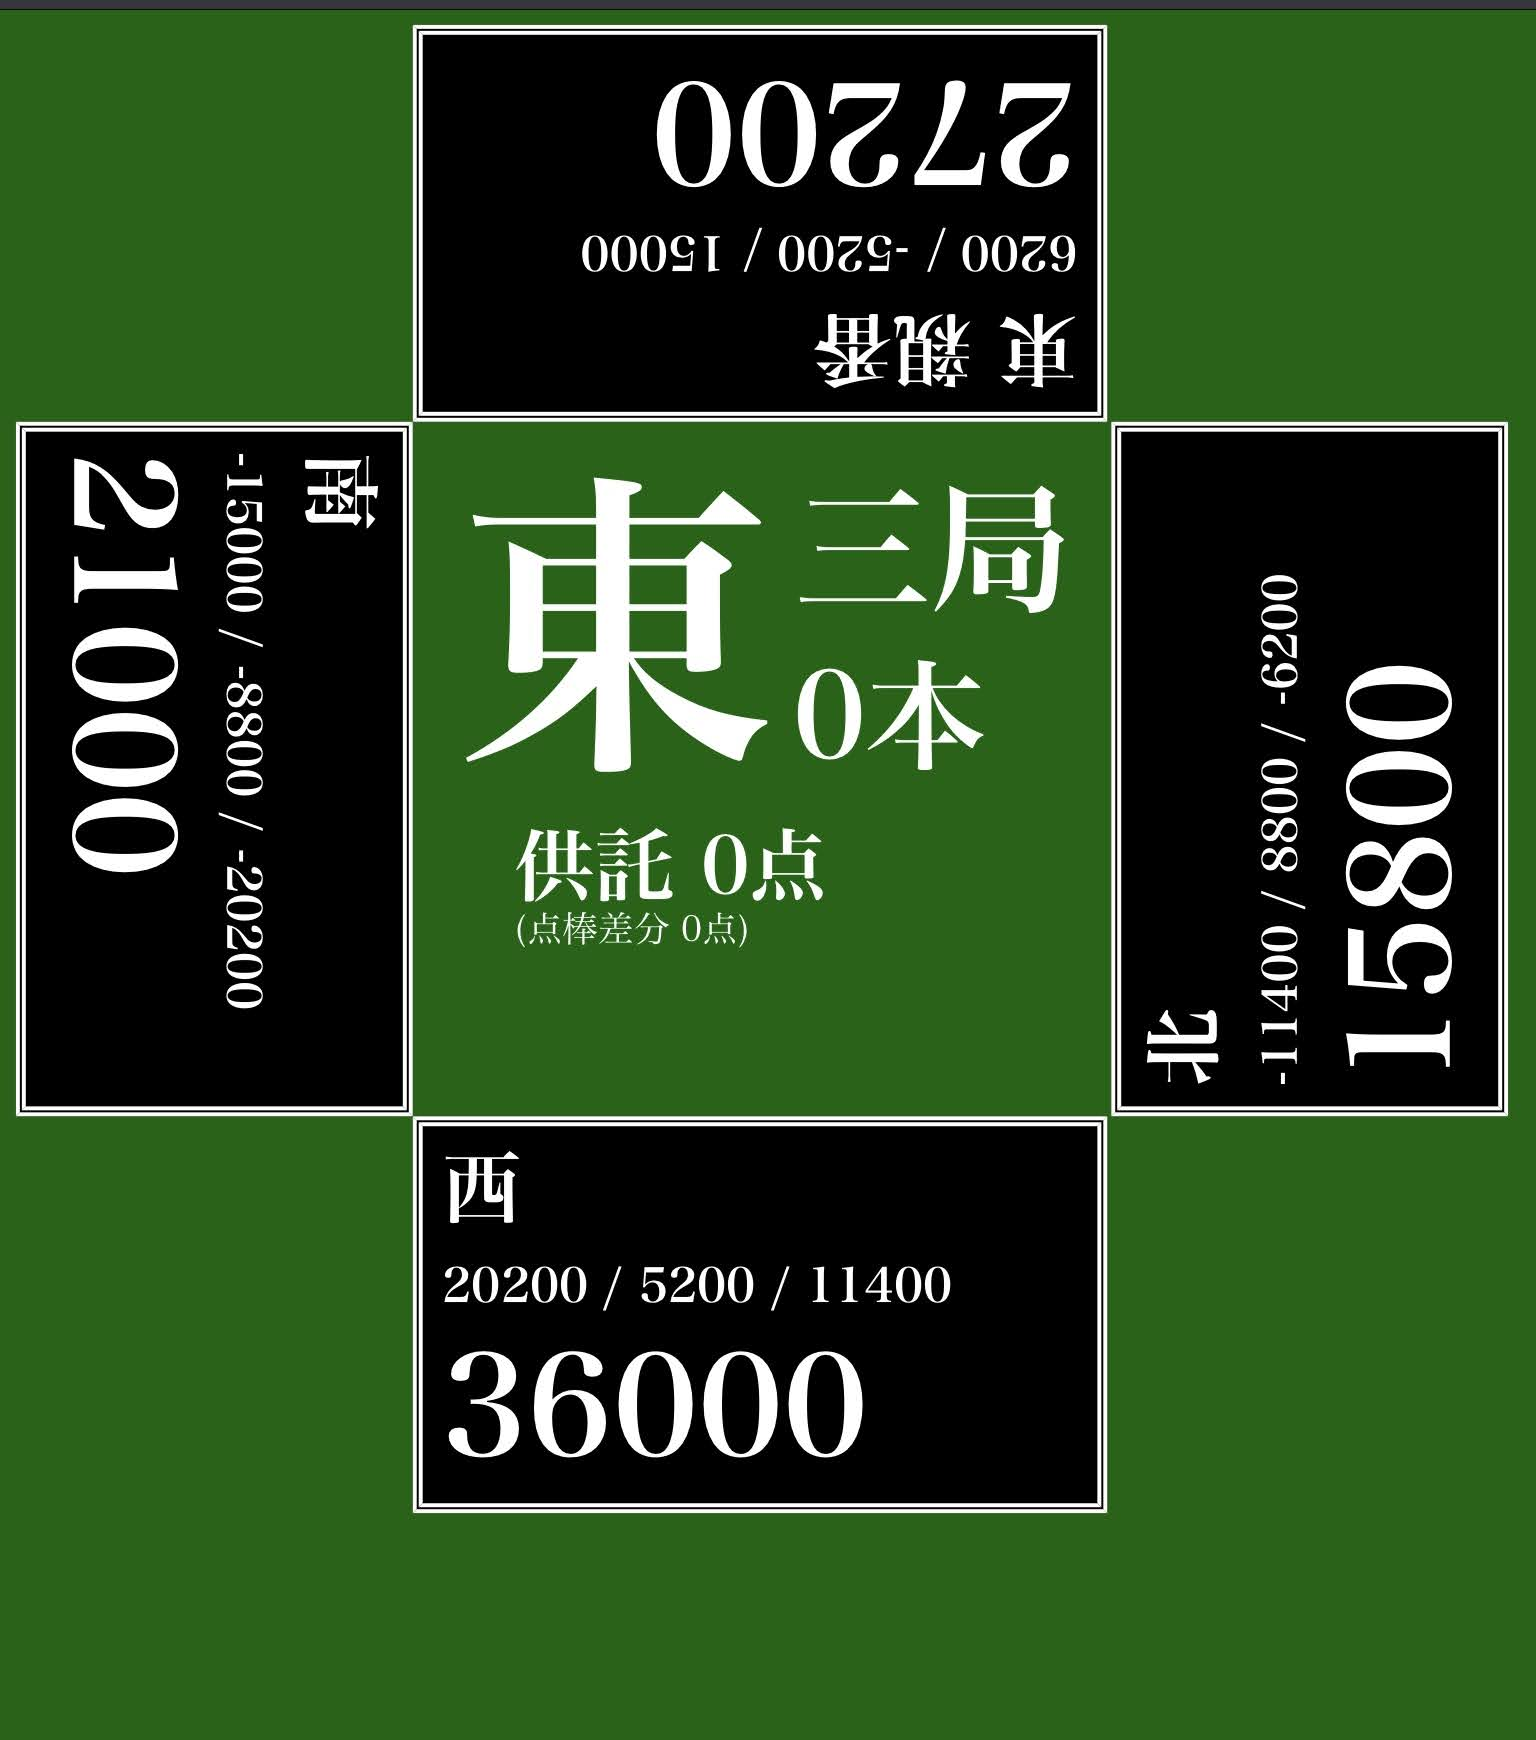
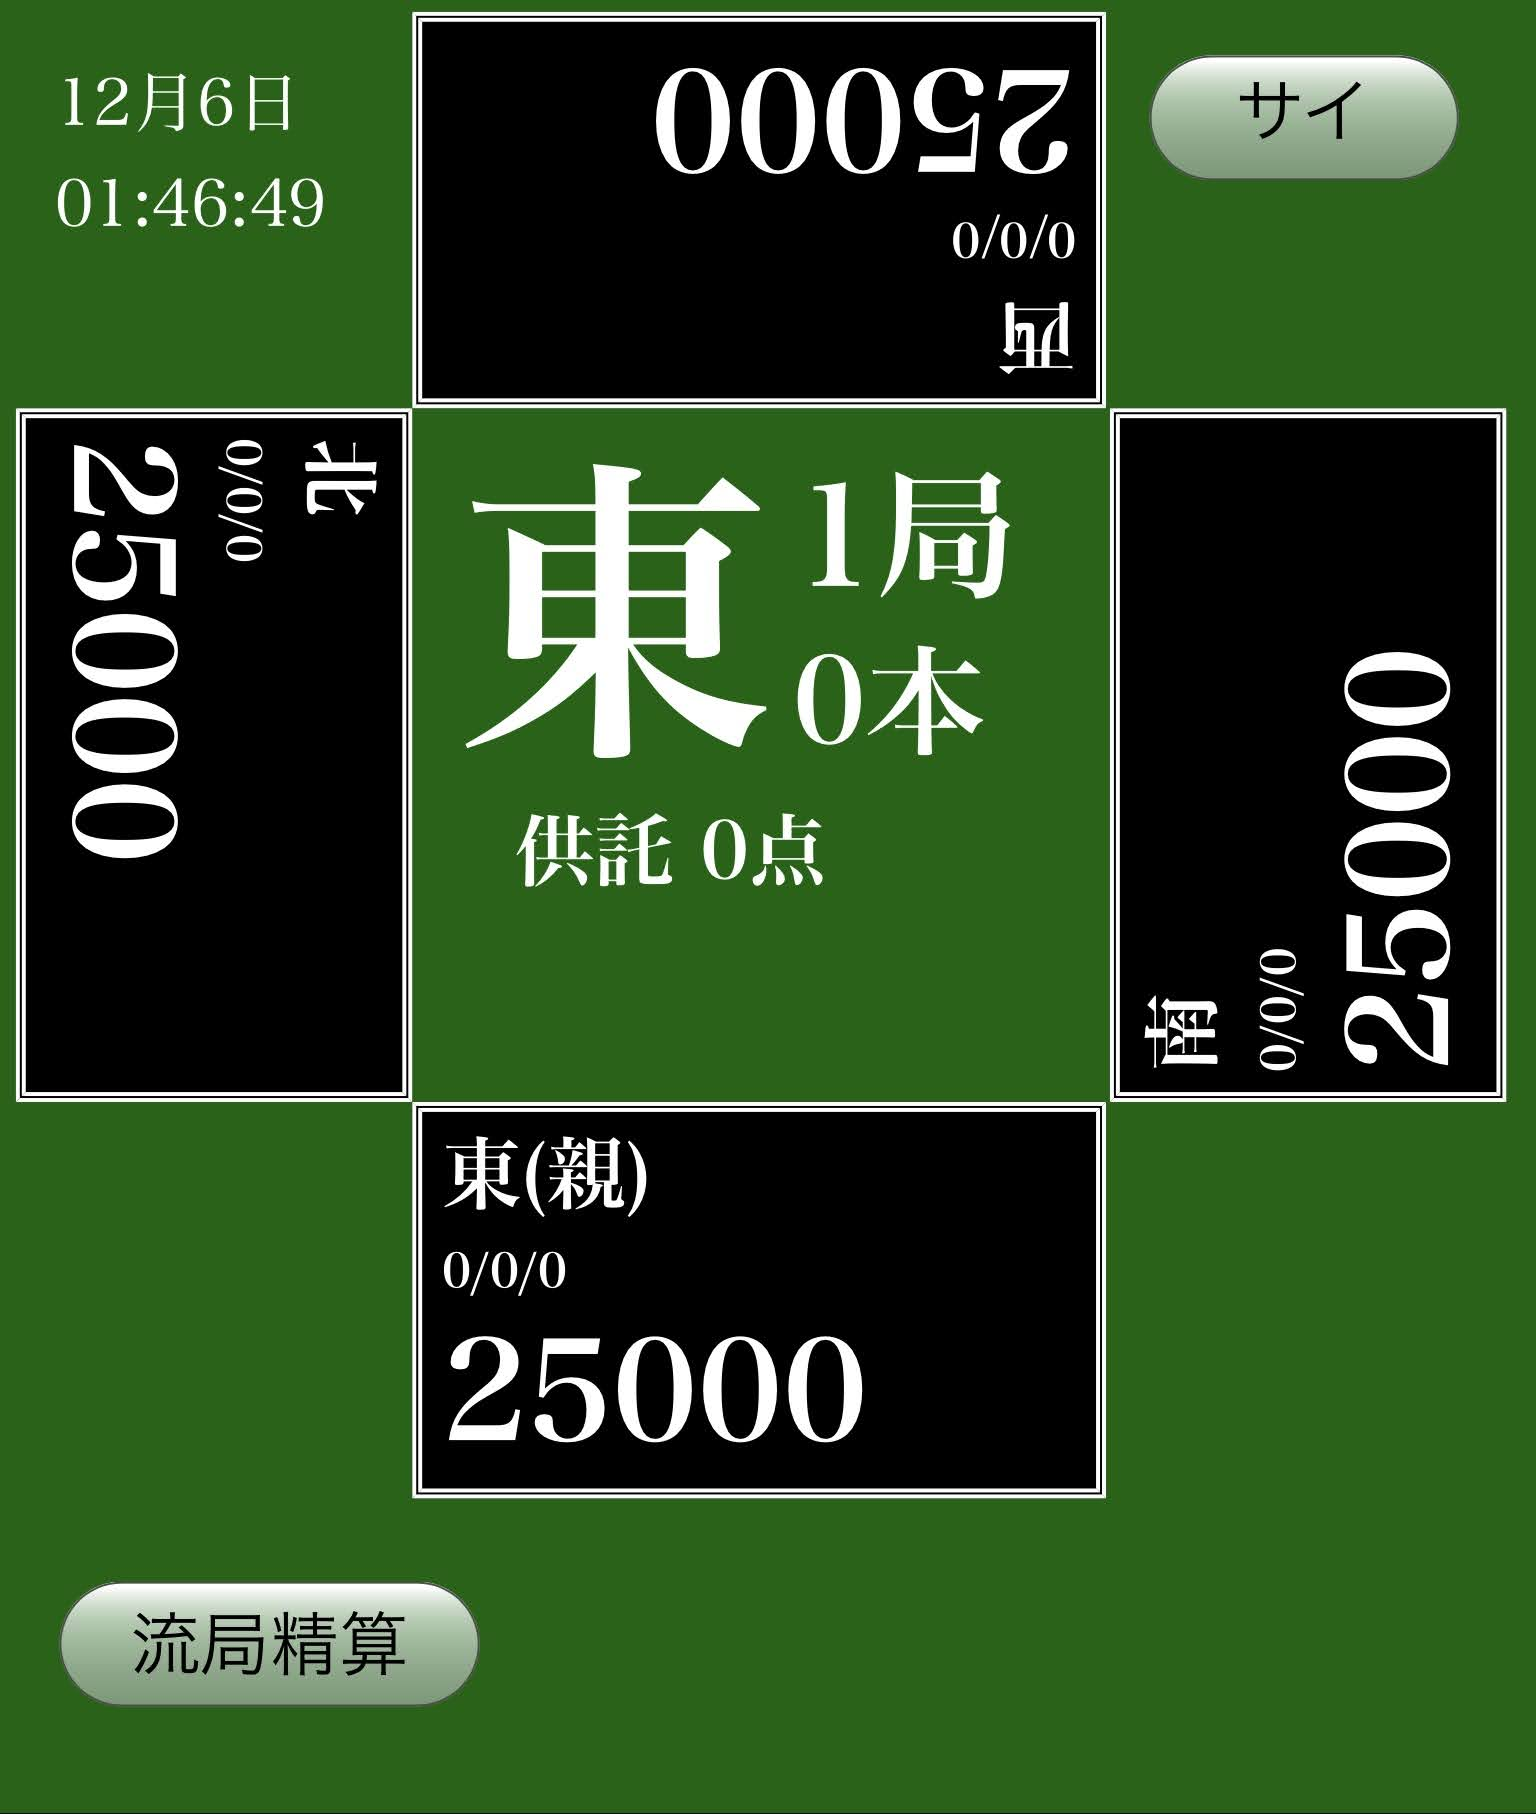
スクショ差し替え

Changed region(s): [[0.0, 0.0, 1.0, 0.9621], [0.8125, 0.3103, 0.8438, 0.4034]]

diff --git a/README.md b/README.md
@@ -7,6 +7,8 @@
 
 ![screenshot1](images/sc-01.jpg)
 
+![screenshot2](images/sc-03.jpg)
+
 ![screenshot2](images/sc-02.png)
 
 ## 使用したもの
